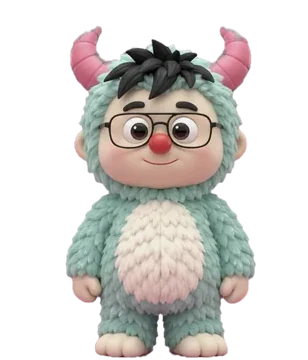
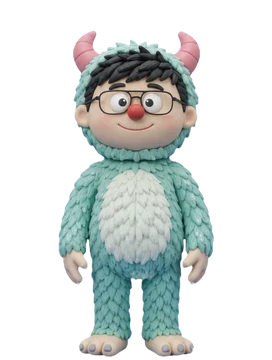
五個聖誕角色都換成大熊的動態影片：彩繪精靈（畫筆畫圈、揮拐杖糖、小跳）、禮物精靈（舉高禮物、眨眼、小跳）、薑餅烘焙師（展示薑餅、擠糖霜、揮手）、粉雪女王（揮魔杖、行禮、眨眼）、薄荷雪怪（藍底新版）；藍色背景去背、每秒 6 格；平常只放約 20KB 靜止圖，點他或鏡頭靠近才下載動畫播一輪、播完就釋放記憶體；park 20261025c、art 20261025e

diff --git a/park.html b/park.html
@@ -775,7 +775,7 @@ body:not(.oct) #evPill{display:none}
 <script src="https://cdnjs.cloudflare.com/ajax/libs/three.js/r128/three.min.js"></script>
 <script>
 const RM=false; /* 大熊決定（跟扭蛋 gacha.js 一樣）：不管手機有沒有開「減少動態效果」，遊戲動畫照常播。之前 RM 會把轉扭蛋、滾出來、走格子動畫縮成 0.08 秒，看起來像「點了沒反應」 */
-const PARK_VER='20261025b';
+const PARK_VER='20261025c';
 /* 手機把 WebGL 收回去（iPhone 的 LINE 記憶體不夠、或切到別的 App 再回來）時，3D 畫面會整個消失，只剩背景和按鈕＝「空空的」。
    three 會自己還原；3 秒沒回來就自動重新整理（30 秒內最多一次），並記下這支手機，之後 1 天改用省記憶體模式（影子圖和解析度縮小；2026-10-10 大熊嫌糊，7 天→1 天） */
 const LOWMEM=(()=>{try{return Date.now()-(+localStorage.getItem('otto2-gl-lost')||0)<864e5}catch(e){return false}})();
@@ -1421,8 +1421,8 @@ function buildShop(P){
   /* 2026-10-24 大熊：聖誕期間店門口的人換成薑餅烘焙師（他設計的公仔正面，一樣高） */
   {const XB=XSC(),ch=1.65*397/300,cw=XB?ch*308/600:1.65,ct=new THREE.TextureLoader().load(XB?'xmas-baker.webp?v=20261024a':'shop-keeper-last.webp?v=20261007e');ct.anisotropy=4;const cx=1.85,cz=1.15;
     /* 2026-10-25 大熊：每個人都至少要三種動作 → 聖誕期間烘焙師改成跟其他人一樣的立牌（會晃、丟薑餅、擠糖霜、冒愛心），點他跳一下再進選品館 */
-    if(XB){const bk=standeeMake('xmas-baker.webp?v=20261024a',308/600,2.15,[.86,.5],'#c99a66');bk.position.set(cx,0,cz);S.add(bk);GA.baker=bk;
-      Object.assign(bk.userData,{moves:['toss','shake','love'],hopFx:'cookie',tip2:[(.12-.5)*bk.userData.W,.16+(1-.62)*2.15],pal2:['#ffffff','#f7c6d4','#f2a3b8']})}
+    if(XB){const bk=standeeMake('xmas-baker-still.webp?v=20261025a',1,2.15,[.86,.5],'#c99a66',SD_ATLAS.BAKER);bk.position.set(cx,0,cz);S.add(bk);GA.baker=bk;
+      Object.assign(bk.userData,{moves:['toss','shake','love'],hopFx:'cookie',tip2:(()=>{const A=SD_ATLAS.BAKER,[,,w,h,ox,oy]=A.rects[A.seq[0]],u=bk.userData;return[((ox+.12*w)/A.W0-.5)*u.W,.16+(1-(oy+.62*h)/A.H0)*u.H]})(),pal2:['#ffffff','#f7c6d4','#f2a3b8']})}
     else{const c=new THREE.Mesh(new THREE.PlaneGeometry(cw,ch),new THREE.MeshBasicMaterial({map:ct,transparent:true,alphaTest:.3,side:THREE.DoubleSide}));c.position.set(cx,ch/2,cz);S.add(c)}
     const cs=new THREE.Mesh(new THREE.CircleGeometry(1,20),new THREE.MeshBasicMaterial({color:'#000',transparent:true,opacity:.16,depthWrite:false}));cs.rotation.x=-Math.PI/2;cs.scale.set(.5,.2,1);cs.position.set(cx,.04,cz+.05);S.add(cs);
     const cv=document.createElement('canvas');cv.width=480;cv.height=170;const x=cv.getContext('2d');
@@ -1886,9 +1886,9 @@ function buildPlaza(){
   GA.kb=makePicasso('p02');GA.kb.scale.setScalar(KS);GA.kb.userData.home=MACH.clone().add(new THREE.Vector3(0,2.85,1.95));
   GA.kb.position.copy(GA.kb.userData.home);GA.kb.rotation.x=KX;scene.add(GA.kb);
   if(XSC())xmasPlaza(P,W,GY+R);
-  if(XSC()){const ge=standeeMake('xmas-giftelf.webp?v=20261024a',341/600,2.3,[.78,.6],'#f2c14e');ge.position.set(MACH.x-PLAZA.x-1.9,0,MACH.z-PLAZA.z+2.3);P.add(ge);GA.giftElf=ge;
+  if(XSC()){const ge=standeeMake('xmas-giftelf-still.webp?v=20261025a',1,2.3,[.78,.6],'#f2c14e',SD_ATLAS.GIFT);ge.position.set(MACH.x-PLAZA.x-1.9,0,MACH.z-PLAZA.z+2.3);P.add(ge);GA.giftElf=ge;
     Object.assign(ge.userData,{moves:['pop','love','wave'],pal:['#f2c14e','#f7d77a','#f2a3b8','#ffffff','#e8b94a'],i:-1,t:0});
-    const bub=new THREE.Sprite(new THREE.SpriteMaterial({transparent:true,depthTest:false}));bub.center.set(.5,0);bub.position.y=2.3+.4;bub.renderOrder=5;ge.add(bub);ge.userData.bub=bub}
+    const bub=new THREE.Sprite(new THREE.SpriteMaterial({transparent:true,depthTest:false}));bub.center.set(.5,0);bub.position.y=ge.userData.Hc+.3;bub.renderOrder=5;ge.add(bub);ge.userData.bub=bub}
   buildTrain();
   buildMarquee(g,GY+R+1.7);
   buildStand();buildBoard();buildBubbles();
@@ -2799,7 +2799,7 @@ $('plMascot').addEventListener('click',()=>{if(busy)return;mascotGo()});
 $('plPark').addEventListener('click',()=>{if(!busy&&G.phase!=='oct')backToPlaza()});
 $('plWalk').addEventListener('click',()=>enterWalk());
 document.querySelector('.octinfo').addEventListener('click',()=>{if(G.phase==='oct'&&walkOpen())enterWalk()});
-$('plArt').addEventListener('click',()=>{if(busy)return;if($('plArt').classList.contains('gray')){toast('作品小屋還在準備，之後會開放');return}Ferry.go({to:'art.html?v=20261025d',place:'art',from:'park'})});
+$('plArt').addEventListener('click',()=>{if(busy)return;if($('plArt').classList.contains('gray')){toast('作品小屋還在準備，之後會開放');return}Ferry.go({to:'art.html?v=20261025e',place:'art',from:'park'})});
 const petsToday=()=>new Date(Date.now()+8*3600e3).toISOString().slice(0,10);
 const PETS_NOTICE_DAYS=5; /* 通知只在前 5 天每天跳一次，之後改成「吉祥物島」按鈕上的小紅點（當天還沒去過才亮） */
 function petsDot(){let v='';try{v=localStorage.getItem('otto2-pets-visit')||''}catch(e){}const b=$('plMascot');if(b)b.classList.toggle('dot',v!==petsToday())}
@@ -2981,19 +2981,35 @@ function elfBubble(t){const cv=document.createElement('canvas'),x=cv.getContext(
 /* 2026-10-24 大熊：平面板子很奇怪 → 改成像壓克力立牌：正面是圖、後面疊 8 層深色同形狀做出厚度，站在木頭圓底座上；
    整個立牌只繞直立軸轉向鏡頭（不會像貼紙一樣往後倒），從上往下看看得到頭頂那圈厚度 */
 /* 立牌共用（彩繪精靈、禮物精靈）：url 圖、ar＝寬/高、H 高度、tip＝噴顏料的位置（圖上 0～1 的比例，左上是 0,0）、rim 底座邊色 */
-function standeeMake(url,ar,H,tip,rim){const g=new THREE.Group(),W=H*ar;g.userData.standee=1;      // 有 userData，mergeStatic 不會動它
+/* A＝動態版（大熊的影片：每秒 6 格去背、排進一張大圖）。url 是靜止的第一格；有人點、或鏡頭靠近才下載大圖播一輪，播完或鏡頭離開就丟掉省記憶體。
+   H 是人物身高，動態版換算成整格高度；tip 也從人物範圍換算到整格 */
+const SD_ATLAS={ELF:Object.assign({"W0":224,"H0":360,"AW":4056,"AH":1008,"rects":[[0,0,169,330,20,27],[171,0,170,330,20,27],[343,0,170,332,20,25],[515,0,170,331,20,26],[687,0,170,329,20,28],[859,0,170,330,20,27],[1031,0,171,331,20,26],[1204,0,190,329,18,28],[1396,0,185,328,14,29],[1583,0,165,325,9,33],[1750,0,157,324,6,34],[1909,0,174,325,12,33],[2085,0,202,326,18,31],[2289,0,204,327,18,30],[2495,0,206,324,12,34],[2703,0,208,333,6,25],[2913,0,195,334,3,24],[3110,0,173,331,4,26],[3285,0,168,326,9,31],[3455,0,157,328,20,29],[3614,0,126,330,47,27],[3742,0,130,331,45,26],[3874,0,182,329,3,28],[0,336,187,326,6,31],[189,336,187,323,14,34],[378,336,188,323,14,34],[568,336,197,325,0,32],[767,336,195,325,0,32],[964,336,185,324,14,33],[1151,336,184,324,15,33],[1337,336,190,327,0,30],[1529,336,175,330,2,27],[1706,336,160,330,9,27],[1868,336,151,328,19,29],[2021,336,136,329,33,29],[2159,336,173,340,11,6],[2334,336,177,325,11,4],[2513,336,175,330,11,16],[2690,336,176,323,11,34],[2868,336,184,336,6,2],[3054,336,183,320,9,6],[3239,336,180,332,10,25],[3421,336,172,323,14,35],[3595,336,178,331,14,26],[3775,336,175,329,15,28],[0,678,173,326,16,31],[175,678,175,329,15,29],[352,678,176,330,15,28],[530,678,176,328,15,29]],"seq":[0,0,0,1,2,3,4,5,6,7,8,9,10,11,12,13,14,15,16,17,18,19,20,21,22,23,24,25,26,27,28,29,30,31,32,32,33,34,35,36,37,38,39,40,41,42,43,44,45,46,47,48,48,48,48,48,48,48,48,48]},{fps:6,url:'mascot-elf-anim.webp?v=20261025a'}),GIFT:Object.assign({"W0":180,"H0":360,"AW":4059,"AH":681,"rects":[[0,0,135,332,23,25],[137,0,134,331,24,26],[273,0,134,332,24,25],[409,0,135,334,24,23],[546,0,135,336,24,21],[683,0,135,336,24,21],[820,0,135,336,24,21],[957,0,133,338,25,20],[1092,0,133,332,24,25],[1227,0,160,328,11,30],[1389,0,171,325,5,32],[1562,0,178,326,1,32],[1742,0,177,329,1,29],[1921,0,174,328,3,29],[2097,0,174,327,3,30],[2273,0,166,327,10,30],[2441,0,142,332,21,26],[2585,0,132,335,29,23],[2719,0,142,332,23,25],[2863,0,147,329,21,28],[3012,0,146,330,22,27],[3160,0,145,330,23,27],[3307,0,144,330,23,27],[3453,0,137,333,23,24],[3592,0,153,330,7,27],[3747,0,155,326,5,31],[3904,0,155,326,5,31],[0,340,144,334,15,24],[146,340,140,341,20,2],[288,340,141,328,20,5],[431,340,143,329,19,9],[576,340,141,322,20,35],[719,340,132,337,25,19],[853,340,141,336,20,3],[996,340,143,326,19,6],[1141,340,138,321,22,9],[1281,340,139,322,21,9],[1422,340,141,330,20,17],[1565,340,137,326,22,32],[1704,340,136,333,22,25],[1842,340,137,334,22,23],[1981,340,137,333,22,24],[2120,340,136,331,23,26],[2258,340,136,332,23,25]],"seq":[0,0,0,1,2,3,4,5,6,7,8,9,10,11,12,13,14,14,14,14,15,16,17,18,19,20,21,22,23,24,25,25,26,27,28,29,30,31,32,33,34,35,36,37,38,39,40,41,42,42,43,43,43,43,43,43,43,43,43,43]},{fps:6,url:'xmas-giftelf-anim.webp?v=20261025a'}),BAKER:Object.assign({"W0":193,"H0":360,"AW":3931,"AH":712,"rects":[[0,0,161,354,5,3],[163,0,161,355,5,3],[326,0,161,355,5,3],[489,0,161,355,5,3],[652,0,161,355,5,3],[815,0,161,355,4,3],[978,0,167,355,4,3],[1147,0,173,355,3,3],[1322,0,174,354,3,4],[1498,0,174,355,3,3],[1674,0,170,354,7,3],[1846,0,164,354,10,3],[2012,0,159,354,12,3],[2173,0,146,354,20,3],[2321,0,140,354,24,3],[2463,0,140,354,24,3],[2605,0,141,354,24,3],[2748,0,145,354,20,3],[2895,0,143,354,22,3],[3040,0,141,354,24,3],[3183,0,142,354,23,3],[3327,0,144,354,21,3],[3473,0,148,354,16,3],[3623,0,152,355,11,2],[3777,0,154,351,8,6],[0,357,168,353,8,4],[170,357,183,355,5,2],[355,357,174,354,4,3],[531,357,187,354,4,3],[720,357,189,355,4,2],[911,357,187,354,3,3],[1100,357,179,354,2,3],[1281,357,190,354,3,3],[1473,357,185,355,5,2],[1660,357,163,354,7,3],[1825,357,155,354,8,3],[1982,357,155,354,8,3]],"seq":[0,1,1,2,2,3,3,3,3,3,3,3,4,5,6,7,8,9,9,9,9,9,10,11,12,13,14,15,15,16,17,17,18,19,20,21,21,22,23,24,25,26,27,28,29,30,31,32,33,34,35,35,36,36,36,36,36,36,36,36]},{fps:6,url:'xmas-baker-anim.webp?v=20261025a'})};
+function standeeMake(url,ar,H,tip,rim,A){let Hc=H;if(A){const [,,w,h,ox,oy]=A.rects[A.seq[0]];H=H*A.H0/h;ar=A.W0/A.H0;tip=[(ox+tip[0]*w)/A.W0,(oy+tip[1]*h)/A.H0];Hc=.16+(1-oy/A.H0)*H}
+  const g=new THREE.Group(),W=H*ar;g.userData.standee=1;   /* 有 userData，mergeStatic 不會動它 */
   const tx=new THREE.TextureLoader().load(url);tx.anisotropy=4;
-  const geo=new THREE.PlaneGeometry(W,H);geo.translate(0,H/2+.16,0);
+  const geo=A?new THREE.PlaneGeometry(1,1):new THREE.PlaneGeometry(W,H);if(!A)geo.translate(0,H/2+.16,0);
   const st=new THREE.Group();g.add(st);const sp=new THREE.Mesh(geo,new THREE.MeshBasicMaterial({map:tx,alphaTest:.5,side:THREE.DoubleSide}));st.add(sp);   /* 不吃燈光（吃燈光晚上會太黑）；大熊嫌太亮→圖本身彩度降 20%、亮度降 5% */
   const edge=new THREE.MeshBasicMaterial({map:tx,color:'#9c8c78',alphaTest:.5,side:THREE.DoubleSide});
-  for(let k=1;k<=8;k++){const l=new THREE.Mesh(geo,edge);l.position.z=-k*.014;st.add(l)}
-  const base=new THREE.Group();g.add(base);const R=Math.max(.62,W*.42);
+  if(!A)for(let k=1;k<=8;k++){const l=new THREE.Mesh(geo,edge);l.position.z=-k*.014;st.add(l)}   /* 動態版不疊厚度（每格輪廓不同，會有殘影） */
+  const base=new THREE.Group();g.add(base);const R=A?Math.max(.6,Hc*.27):Math.max(.62,W*.42);
   base.add(mesh(new THREE.CylinderGeometry(R,R+.06,.16,28),toon('#c99a66'),0,.08,0));base.add(mesh(new THREE.CylinderGeometry(R-.02,R-.02,.02,28),toon('#efe2c8'),0,.17,0));
   const rm=mesh(new THREE.TorusGeometry(R,.025,6,28),toon(rim||'#e9a3b4'),0,.16,0);rm.rotation.x=Math.PI/2;base.add(rm);
-  Object.assign(g.userData,{sp,st,H,W,tip:[(tip[0]-.5)*W,.16+(1-tip[1])*H],moves:['wave','love']});return g}
+  Object.assign(g.userData,{sp,st,H,W,Hc,tx,atlas:A,cool:0,tip:[(tip[0]-.5)*W,.16+(1-tip[1])*H],moves:['wave','love']});if(A)sdFrame(g.userData,[0,0,A.W0,A.H0,0,0],A.W0,A.H0,tx);return g}
+function sdFrame(u,r,tw,th,t){const A=u.atlas,[x,y,w,h,ox,oy]=r;t.repeat.set(w/tw,h/th);t.offset.set(x/tw,1-(y+h)/th);
+  if(u.sp.material.map!==t){u.sp.material.map=t;u.sp.material.needsUpdate=true}
+  u.sp.scale.set(w/A.W0*u.W,h/A.H0*u.H,1);u.sp.position.set(((ox+w/2)/A.W0-.5)*u.W,.16+(1-(oy+h/2)/A.H0)*u.H,0)}
+function sdAnimStart(g){const u=g.userData,A=u.atlas;if(!A||u.atx||u.loading)return;u.loading=true;
+  new THREE.TextureLoader().load(A.url,t=>{u.loading=false;t.minFilter=THREE.LinearFilter;t.generateMipmaps=false;u.atx=t;u.p0=null;u.fi=-1},undefined,()=>{u.loading=false})}
+function sdAnimStop(u){if(!u.atx)return;sdFrame(u,[0,0,u.atlas.W0,u.atlas.H0,0,0],u.atlas.W0,u.atlas.H0,u.tx);u.atx.dispose();u.atx=null;u.tapped=false;u.cool=performance.now()+6000}
+const _sdw=new THREE.Vector3();
+function sdAnimTick(g,now){const u=g.userData,A=u.atlas;g.getWorldPosition(_sdw);const d=camera.position.distanceTo(_sdw);
+  if(!u.atx){if(!u.loading&&now>u.cool&&d<11&&g.visible)sdAnimStart(g);return}   /* 鏡頭靠近就播一輪 */
+  if(u.p0==null)u.p0=now;const k=Math.max(0,Math.floor((now-u.p0)/1000*A.fps));
+  if(k>=A.seq.length||(d>26&&!u.tapped)||!g.visible){sdAnimStop(u);return}       /* 播完、鏡頭走遠、看不到了就丟掉大圖 */
+  const i=A.seq[k];if(i!=null&&i!==u.fi){u.fi=i;sdFrame(u,A.rects[i],A.AW,A.AH,u.atx)}}
 const ELF_H=2.6;
-function elfMake(){const g=standeeMake('mascot-elf.webp?v=20261024c',358/600,ELF_H,[.96,.47],'#e9a3b4');g.userData.elf=1;g.userData.moves=['wave','love','shake'];g.userData.pal2=ELF_PAINT;
-  const bub=new THREE.Sprite(new THREE.SpriteMaterial({transparent:true,depthTest:false}));bub.center.set(.5,0);bub.position.y=ELF_H+.35;bub.renderOrder=5;g.add(bub);
+function elfMake(){const g=standeeMake('mascot-elf-still.webp?v=20261025a',1,ELF_H,[.96,.47],'#e9a3b4',SD_ATLAS.ELF);g.userData.elf=1;g.userData.moves=['wave','love','shake'];g.userData.pal2=ELF_PAINT;
+  const bub=new THREE.Sprite(new THREE.SpriteMaterial({transparent:true,depthTest:false}));bub.center.set(.5,0);bub.position.y=g.userData.Hc+.25;bub.renderOrder=5;g.add(bub);
   g.userData.bub=bub;g.userData.i=-1;g.userData.t=0;return g}
 const _ew=new THREE.Vector3(),_et=new THREE.Vector3(),_ep=new THREE.Vector3();
 /* 2026-10-24 大熊：加動作和反應。點她＝跳一下＋噴顏料＋冒愛心，跳完才開介紹卡；揮畫筆＝整個立牌左右搖、筆尖噴顏料
@@ -3016,11 +3032,11 @@ function elfEmit(kind,at,n,pal){for(let i=0;i<n;i++){let p=ELFP.find(q=>q.life<=
     if(hv)p.v.set((Math.random()-.5)*.6,1.1+Math.random()*.5,(Math.random()-.5)*.6);else if(ck)p.v.set((Math.random()-.5)*2.2,2.6+Math.random()*1.2,(Math.random()-.5)*2.2);else p.v.set((Math.random()-.5)*2.4,1.2+Math.random()*1.8,(Math.random()-.5)*2.4)}}
 function elfParticles(dt){ELFP.forEach(p=>{if(p.life<=0)return;p.life-=dt;if(p.life<=0){p.sp.visible=false;return}
   if(p.kind!=='heart')p.v.y-=4.5*dt;p.sp.position.addScaledVector(p.v,dt);if(p.kind==='cookie')p.sp.material.rotation+=dt*5;const k=p.life/p.max;p.sp.material.opacity=Math.min(1,k*2);if(p.kind==='heart')p.sp.scale.setScalar(p.s*(1+(1-k)*.4))})}
-const sdTip=u=>u.st.localToWorld(_ep.set(u.tip[0],u.tip[1],.05)).clone(),sdTip2=u=>u.tip2?u.st.localToWorld(_ep.set(u.tip2[0],u.tip2[1],.05)).clone():sdTip(u),sdHead=u=>u.st.localToWorld(_ep.set(0,u.H*.85,.1)).clone();
+const sdTip=u=>u.st.localToWorld(_ep.set(u.tip[0],u.tip[1],.05)).clone(),sdTip2=u=>u.tip2?u.st.localToWorld(_ep.set(u.tip2[0],u.tip2[1],.05)).clone():sdTip(u),sdHead=u=>u.st.localToWorld(_ep.set(0,u.Hc*.85,.1)).clone();
 function sdDo(g,kind){if(!g)return;const u=g.userData;u.anim=kind;u.a0=performance.now();u.fx=0}
 const elfDo=kind=>sdDo(MI.elf,kind);
 /* 每一格：立牌轉向鏡頭、輕晃，播 hop（跳＋扭＋噴顏料＋愛心）／wave（左右搖＋噴顏料）／love（冒愛心）；idle＝可以自己動的時候，每 7～12 秒挑一個 */
-function sdTick(g,now,idle){const u=g.userData;
+function sdTick(g,now,idle){const u=g.userData;if(u.atlas)sdAnimTick(g,now);
   let y=Math.abs(Math.sin(now/520))*.06,sx=1,sy=1,rz=0,spin=Math.sin(now/1300)*.06;
   if(u.anim){const t=(now-u.a0)/1000;
     if(u.anim==='hop'){const p=Math.min(1,t/.75);if(t<.12){sy=1-t/.12*.12;sx=1+t/.12*.08}else{const q=Math.min(1,(t-.12)/.63);y+=Math.sin(Math.PI*q)*.75;spin+=Math.sin(q*Math.PI*2)*.5;/* 只扭一下，不整圈轉（背面是深色的疊層，轉過去不好看） */sy=1+Math.sin(Math.PI*q)*.06;sx=1-Math.sin(Math.PI*q)*.04}
@@ -3050,10 +3066,10 @@ function elfTick(now){const dt=Math.min(.05,(now-(elfTick.last||now))/1000);elfT
 /* 2026-10-24 大熊：扭蛋機前面多一個禮物精靈（聖誕期間）。點她跳一下＋冒愛心，說一句話 */
 const GIFT_SAY=()=>['聖誕快樂！🎁','轉一下扭蛋看看！','禮物準備好了喔','今天也要開心～'];
 /* 點烘焙師：跳一下丟薑餅，跳完才進選品館 */
-function bakerTap(rc){const b=GA.baker;if(!b||!rc.intersectObject(b.userData.sp,false).length)return false;if(busy)return true;sfx('tap');if(b.userData.anim!=='hop'){sdDo(b,'hop');b.userData.next=performance.now()+9000;setTimeout(openShop,750)}return true}
-function giftTap(rc){const e=GA.giftElf;if(!e||!e.visible||!rc.intersectObject(e.userData.sp,false).length)return false;sfx('tap');
+function bakerTap(rc){const b=GA.baker;if(!b||!rc.intersectObject(b.userData.sp,false).length)return false;if(busy)return true;sfx('tap');b.userData.tapped=true;sdAnimStart(b);if(b.userData.anim!=='hop'){sdDo(b,'hop');b.userData.next=performance.now()+9000;setTimeout(openShop,750)}return true}
+function giftTap(rc){const e=GA.giftElf;if(!e||!e.visible||!rc.intersectObject(e.userData.sp,false).length)return false;sfx('tap');e.userData.tapped=true;sdAnimStart(e);
   if(e.userData.anim!=='hop'){sdDo(e,'hop');e.userData.next=performance.now()+9000;toast('聖誕快樂！轉一下扭蛋，看看有什麼驚喜 🎁')}return true}
-function elfTap(rc){const e=MI.elf;if(!e||!rc.intersectObject(e.userData.sp,false).length)return false;sfx('tap');
+function elfTap(rc){const e=MI.elf;if(!e||!rc.intersectObject(e.userData.sp,false).length)return false;sfx('tap');e.userData.tapped=true;sdAnimStart(e);
   if(e.userData.anim==='hop')return true;elfDo('hop');e.userData.next=performance.now()+9000;
   setTimeout(()=>popup(null,'彩繪精靈','吉祥物島的守門員！嘎逼、卡布、摩卡、小熊和蛙蛙叫都住在這裡。餵牠們吃點心，牠們會越來越喜歡你喔。',[{t:'去餵食',v:'feed',cls:'red'},{t:'關閉',v:false,cls:'ghost'}],
     '<img alt="彩繪精靈" src="mascot-elf.webp?v=20261024c" style="display:block;height:190px;margin:2px auto 6px">').then(v=>{if(v==='feed'&&$('miFood').hidden)$('miFeed').click()}),900);return true}

diff --git a/art.html b/art.html
@@ -530,21 +530,22 @@ function xmasSnowman(){const a=PIER_A-.15,rr=outline(a)*.66,     // 碼頭內側
 /* 2026-10-25 大熊：湖邊放粉雪女王、薄荷雪怪（聖誕期間，跟佈置一起）。做法同遊樂島的彩繪精靈：
    大熊的透明三視圖裁正面當壓克力立牌（正面＋後面 8 層深色做厚度、木頭底座），只繞直立軸轉向鏡頭、輕晃；
    點他們跳一下＋冒愛心＋彩色碎片，下面跳一句話；平常每 7～12 秒自己動一下 */
-const YETI_ATLAS=Object.assign({"W0":308,"H0":360,"AW":3932,"AH":1380,"rects":[[0,0,191,333,65,25],[193,0,194,332,64,26],[389,0,196,332,62,26],[587,0,199,332,60,26],[788,0,206,337,57,21],[996,0,222,342,44,16],[1220,0,227,341,40,17],[1449,0,227,341,40,17],[1678,0,230,337,34,21],[1910,0,251,335,13,24],[2163,0,238,339,34,20],[2403,0,238,339,37,20],[2643,0,267,339,5,20],[2912,0,264,339,7,20],[3178,0,236,339,39,20],[3416,0,241,340,35,19],[3659,0,267,338,5,20],[0,344,255,339,16,20],[257,344,234,339,40,20],[493,344,257,340,19,19],[752,344,265,340,9,19],[1019,344,239,337,33,21],[1260,344,242,337,30,21],[1504,344,247,329,20,30],[1753,344,212,326,53,33],[1967,344,269,354,27,4],[2238,344,280,322,19,3],[2520,344,276,313,21,6],[2798,344,276,322,20,19],[3076,344,289,316,15,43],[3367,344,260,330,29,28],[3629,344,296,353,11,4],[0,700,283,320,18,6],[285,700,277,315,21,7],[564,700,281,332,19,18],[847,700,291,321,15,37],[1140,700,217,330,53,29],[1359,700,197,338,59,20],[1558,700,205,337,58,22],[1765,700,212,333,55,25],[1979,700,204,331,59,27],[2185,700,201,330,60,29],[2388,700,209,338,56,20],[2599,700,220,341,52,17],[2821,700,225,340,49,18],[3048,700,229,338,47,20],[3279,700,227,336,48,22],[3508,700,216,335,53,23],[3726,700,206,337,58,22],[0,1043,197,337,62,22],[199,1043,192,334,65,25],[393,1043,192,332,65,26],[587,1043,193,333,64,25],[782,1043,195,333,63,25],[979,1043,196,334,63,25],[1177,1043,195,333,63,25]],"seq":[0,0,1,2,3,4,5,6,7,8,9,10,11,12,13,14,15,16,17,18,19,20,21,22,23,24,25,26,27,28,29,30,31,32,33,34,35,36,37,38,39,40,41,42,43,44,45,46,47,48,49,50,51,51,52,52,53,53,54,55]},{fps:6,url:'xmas-yeti-anim.webp?v=20261025b'});   /* 薄荷雪怪動態版的格子位置（scratchpad tools/key.py 產生） */
+const YETI_ATLAS=Object.assign({"W0":272,"H0":360,"AW":4074,"AH":1009,"rects":[[0,0,156,327,58,30],[158,0,158,328,57,29],[318,0,162,330,55,27],[482,0,161,329,55,28],[645,0,157,327,58,30],[804,0,184,330,56,27],[990,0,193,333,53,24],[1185,0,200,329,54,28],[1387,0,212,327,54,30],[1601,0,192,330,54,27],[1795,0,198,331,54,26],[1995,0,209,329,54,28],[2206,0,186,329,54,28],[2394,0,202,330,54,27],[2598,0,205,330,54,27],[2805,0,197,330,54,27],[3004,0,206,330,51,27],[3212,0,243,328,20,29],[3457,0,264,325,4,32],[3723,0,264,322,4,35],[0,335,264,343,4,14],[266,335,264,315,4,2],[532,335,264,308,4,2],[798,335,264,331,4,3],[1064,335,233,323,20,34],[1299,335,158,328,57,29],[1459,335,167,331,53,26],[1628,335,166,328,53,29],[1796,335,158,327,57,30],[1956,335,167,325,53,32],[2125,335,195,329,41,28],[2322,335,215,330,31,9],[2539,335,219,326,28,21],[2760,335,209,319,32,38],[2971,335,221,334,26,9],[3194,335,223,333,22,22],[3419,335,210,328,26,30],[3631,335,220,338,22,8],[3853,335,221,329,22,28],[0,680,218,324,26,33],[220,680,216,324,28,33],[438,680,189,327,41,30],[629,680,165,329,54,28],[796,680,154,329,59,28],[952,680,155,326,59,31]],"seq":[0,0,0,1,2,3,4,4,4,5,6,7,8,9,10,11,12,13,14,15,16,17,18,19,20,21,22,23,24,25,26,27,28,29,30,31,32,33,34,35,36,37,38,39,40,41,42,43,44,44,44,44,44,44,44,44,44,44,44,44]},{fps:6,url:'xmas-yeti-anim.webp?v=20261025c'}),QUEEN_ATLAS=Object.assign({"W0":214,"H0":360,"AW":3914,"AH":709,"rects":[[0,0,189,353,12,4],[191,0,189,353,11,4],[382,0,185,353,15,4],[569,0,166,353,34,4],[737,0,152,351,48,5],[891,0,156,351,45,5],[1049,0,185,351,16,5],[1236,0,201,351,0,5],[1439,0,198,351,3,5],[1639,0,168,351,33,5],[1809,0,155,351,46,5],[1966,0,170,351,31,5],[2138,0,198,351,3,5],[2338,0,196,351,2,5],[2536,0,188,352,6,4],[2726,0,186,352,9,4],[2914,0,191,352,9,5],[3107,0,200,351,9,6],[3309,0,200,352,10,5],[3511,0,201,350,10,7],[3714,0,200,342,10,15],[0,355,200,341,10,16],[202,355,200,341,10,16],[404,355,200,341,10,16],[606,355,200,342,10,15],[808,355,199,349,11,8],[1009,355,196,354,12,3],[1207,355,198,353,12,4],[1407,355,193,352,12,5],[1602,355,197,352,10,5],[1801,355,201,348,8,9],[2004,355,203,347,7,10],[2209,355,203,347,7,10],[2414,355,203,348,8,9],[2619,355,199,352,12,5],[2820,355,195,353,14,4],[3017,355,192,353,15,4],[3211,355,193,352,15,4],[3406,355,182,352,12,5],[3590,355,181,354,12,3]],"seq":[0,0,0,0,1,1,1,1,1,2,3,4,5,6,7,8,9,10,11,12,13,14,15,16,17,18,19,20,21,22,23,24,25,26,27,28,29,30,31,32,32,33,34,35,36,36,37,37,37,37,37,37,37,37,37,37,37,37,38,39]},{fps:6,url:'xmas-queen-anim.webp?v=20261025a'});   /* 雪怪、粉雪女王動態版的格子位置（scratchpad tools/keyblue.py 產生） */
 const TREEPOS=[];   /* 島上小樹的位置（buildAnimals 種的），聖誕立牌找樹下位置用 */
 const XSD=[],XSDP=[],_sw=new THREE.Vector3(),_st=new THREE.Vector3(),_sp=new THREE.Vector3();
 /* o.atlas＝會動的版本（大熊給的影片：每秒 6 格去背、每格裁到人物範圍、排進一張大圖，站著不動的格子重複用）
    {W0,H0 一格的原始大小, AW,AH 大圖大小, rects:[x,y,w,h,在原格裡的 ox,oy], seq 播放順序, fps, url 大圖}
    2026-10-25 大熊：平常不要動省記憶體 → url（第一個參數）是靜止的第一格（20KB）；有人點他、或鏡頭拉近才下載大圖播一輪，
    播完或鏡頭離開就把大圖丟掉（手機記憶體只在播的時候多佔約 22MB） */
-function xsdMake(url,ar,H,name,say,rim,o={}){const g=new THREE.Group(),W=H*ar,tx=new THREE.TextureLoader().load(url);tx.anisotropy=4;
+function xsdMake(url,ar,H,name,say,rim,o={}){if(o.atlas){const A=o.atlas,r=A.rects[A.seq[0]];H=H*A.H0/r[3];ar=A.W0/A.H0}   /* 動態版：H 是人物身高，換算成整格的高度 */
+  const g=new THREE.Group(),W=H*ar,tx=new THREE.TextureLoader().load(url);tx.anisotropy=4;
 
   const geo=o.atlas?new THREE.PlaneGeometry(1,1):new THREE.PlaneGeometry(W,H);if(!o.atlas)geo.translate(0,H/2+.16,0);const st=new THREE.Group();g.add(st);
   const sp=new THREE.Mesh(geo,new THREE.MeshBasicMaterial({map:tx,alphaTest:.5,side:THREE.DoubleSide}));st.add(sp);sp.userData={xsd:g};picks.push(sp);
   const edge=new THREE.MeshBasicMaterial({map:tx,color:'#9c8c78',alphaTest:.5,side:THREE.DoubleSide});if(!o.atlas)for(let k=1;k<=8;k++){   /* 會動的版本不疊厚度（每格輪廓不同，疊起來邊緣會有一圈深色殘影） */const l=new THREE.Mesh(geo,edge);l.position.z=-k*.014;st.add(l)}
   const R=o.baseR||Math.max(.62,W*.42);g.add(cyl('#c99a66',R,R+.06,.16,0,0,0,28));g.add(cyl('#efe2c8',R-.02,R-.02,.02,0,.16,0,28));
   const rm=new THREE.Mesh(new THREE.TorusGeometry(R,.025,6,28),toon(rim));rm.rotation.x=Math.PI/2;rm.position.y=.16;g.add(rm);
-  const tip=o.tip||[.5,.5];g.userData={st,H,W,name,say,i:0,next:0,moves:o.moves||['sway','love'],hopFx:o.hopFx||'dot',tip:[(tip[0]-.5)*W,.16+(1-tip[1])*H],tx,sp,atlas:o.atlas,cool:0};if(o.atlas)xsdFrame(g.userData,[0,0,o.atlas.W0,o.atlas.H0,0,0],o.atlas.W0,o.atlas.H0,tx);XSD.push(g);return g}
+  let tip=o.tip||[.5,.5];if(o.atlas){const A=o.atlas,[,,w,h,ox,oy]=A.rects[A.seq[0]];tip=[(ox+tip[0]*w)/A.W0,(oy+tip[1]*h)/A.H0]}g.userData={st,H,W,name,say,i:0,next:0,moves:o.moves||['sway','love'],hopFx:o.hopFx||'dot',tip:[(tip[0]-.5)*W,.16+(1-tip[1])*H],tx,sp,atlas:o.atlas,cool:0};if(o.atlas)xsdFrame(g.userData,[0,0,o.atlas.W0,o.atlas.H0,0,0],o.atlas.W0,o.atlas.H0,tx);XSD.push(g);return g}
 /* 粒子：heart 愛心、snow 雪花（慢慢飄）、puff 雪霧（往外散、變大）、ball 雪球（丟出去會掉下來）、dot 彩色碎片 */
 function xsdEmit(kind,at,n,dir){const C=['#f6f8fb','#f2a3b8','#8fd3b8','#cfe3f7','#f7c6d4'];
   for(let i=0;i<n;i++){let p=XSDP.find(q=>q.life<=0);if(!p){if(XSDP.length>=60)break;p={sp:new THREE.Sprite(new THREE.SpriteMaterial({transparent:true,depthWrite:false})),v:new THREE.Vector3(),life:0};p.sp.renderOrder=4;scene.add(p.sp);XSDP.push(p)}
@@ -604,7 +605,7 @@ function xsdTick(dt,now){XSD.forEach(g=>{const u=g.userData;
     p.sp.position.addScaledVector(p.v,dt);const k=p.life/p.max;p.sp.material.opacity=Math.min(1,k*2);
     if(p.kind==='heart')p.sp.scale.setScalar(p.s*(1+(1-k)*.4));else if(p.kind==='puff')p.sp.scale.setScalar(p.s*(1+(1-k)*1.6))})}
 function xmasPondFolk(){const P=PONDS[1];   /* 第二個湖的這一側：離所有小屋位置 3.5 以上、離小路和畫架都遠 */
-  [['xmas-queen.webp?v=20261025a',428/600,2.5,'粉雪女王',['聖誕快樂！湖水都結成粉紅色的冰了','要不要一起來許個願？','今年的作品也好漂亮喔'],'#f2a3b8',1.05,{tip:[.07,.48],moves:['wand','twirl','love'],hopFx:'snow'}],
+  [['xmas-queen-still.webp?v=20261025a',1,2.5,'粉雪女王',['聖誕快樂！湖水都結成粉紅色的冰了','要不要一起來許個願？','今年的作品也好漂亮喔'],'#f2a3b8',1.05,{tip:[.07,.48],moves:['wand','twirl','love'],hopFx:'snow',atlas:QUEEN_ATLAS}],
   ].forEach(([u,ar,H,n,say,rim,a,o])=>{
     const r=P.r+1.5,x=P.x+Math.cos(a)*r,z=P.z+Math.sin(a)*r,g=xsdMake(u,ar,H,n,say,rim,o);g.position.set(x,heightAt(x,z),z);scene.add(g)});
   /* 2026-10-25 大熊：兩個不要放一起，雪怪放到水邊附近的樹下 → 找離湖最近、旁邊沒有小屋的那棵樹，站在樹和湖之間 */
@@ -612,7 +613,7 @@ function xmasPondFolk(){const P=PONDS[1];   /* 第二個湖的這一側：離所
   let best=null;TREEPOS.forEach(t=>PONDS.forEach(p=>{const d=Math.hypot(t.x-p.x,t.z-p.z)-p.r;if(d<1||d>5)return;const ux=(p.x-t.x)/(d+p.r),uz=(p.z-t.z)/(d+p.r);
     for(const k of [1.75,1.55,1.95]){   /* 站在樹冠邊緣（太靠樹幹會被松樹的枝葉擋住） */const x=t.x+ux*k,z=t.z+uz*k;if(ok(x,z)&&(!best||d<best.d)){best={x,z,d};break}}}));
   /* 2026-10-25 大熊給了雪怪的動態影片 → 用會動的版本（眨眼、揮手、張手跳、大笑），原本的丟雪球、冒愛心留著穿插 */
-  if(best){const g=xsdMake('xmas-yeti-still.webp?v=20261025a',308/360,2.9,'薄荷雪怪',['我一點都不可怕啦！','聖誕快樂～抱一個！','在樹下躲雪最舒服了'],'#8fd3b8',{moves:['throw','love','shiver'],hopFx:'puff',baseR:.72,atlas:YETI_ATLAS});g.position.set(best.x,heightAt(best.x,best.z),best.z);scene.add(g)}}
+  if(best){const g=xsdMake('xmas-yeti-still.webp?v=20261025c',1,2.5,'薄荷雪怪',['我一點都不可怕啦！','聖誕快樂～抱一個！','在樹下躲雪最舒服了'],'#8fd3b8',{moves:['throw','love','shiver'],hopFx:'puff',baseR:.72,atlas:YETI_ATLAS});g.position.set(best.x,heightAt(best.x,best.z),best.z);scene.add(g)}}
 /* 2026-10-25 大熊：聖誕老公公要到處飛 → 作品小屋也有（模型照抄遊樂島 park.html 的 makeSanta）。
    跟著鏡頭：每一趟從畫面一邊飛到另一邊，飛 10 秒、休息 14～24 秒；點他說聖誕快樂。看小屋、開視窗的時候不飛 */
 const ASANTA={g:null,t:0,next:3,fly:false,dir:1,legs:[],stars:[],st:0};

diff --git a/index.html b/index.html
@@ -1254,7 +1254,7 @@ function artOpenNotice(){
   const close=()=>w.remove();
   w.addEventListener("click",e=>{if(e.target===w)close()});
   document.getElementById("artOpenNo").onclick=close;
-  document.getElementById("artOpenGo").onclick=()=>{ parkToken(); location.href="art.html?v=20261025d" };
+  document.getElementById("artOpenGo").onclick=()=>{ parkToken(); location.href="art.html?v=20261025e" };
 }
 function openGacha(){ parkToken(); location.href="park.html?v=20261013c" }
 function openGacha2d(){
@@ -2147,7 +2147,7 @@ function boot(){
   } else if(!boot._gc && /go(=|%3D)art/i.test(q)){
     /* 直達作品小屋（2026-10-05 會員推播用）：https://liff.line.me/2010906803-FMDYktUN?go=art */
     boot._gc=true;
-    liffReady.then(()=>{ parkToken(); location.replace("art.html?v=20261025d") });
+    liffReady.then(()=>{ parkToken(); location.replace("art.html?v=20261025e") });
   } else if(!boot._gc && /go(=|%3D)book/i.test(q)){
     boot._gc=true;
     setTimeout(()=>setStep(1),0);

diff --git a/mascot.html b/mascot.html
@@ -341,7 +341,7 @@ const NOTIFY='https://otto2-notify-production.up.railway.app',VER='20261013c';
 const DEST={
   gacha:{t:'畢卡索扭扭樂',s:'十月・扭蛋機，到 10/31',u:'park.html?v='+VER+'&phase=oct'},
   xmas:{t:'聖誕走格子',s:'11/1 起・擲骰子走格子',u:'park.html?v='+VER+'&phase=nov'},
-  art:{t:'作品小屋',s:'15 週年・大家的作品',u:'art.html?v=20261025d'}};
+  art:{t:'作品小屋',s:'15 週年・大家的作品',u:'art.html?v=20261025e'}};
 const ART_PUBLIC=true; /* 2026-10-03 作品小屋雲端版正式開放給所有人 */
 const taipei=()=>new Date(Date.now()+8*3600e3).toISOString().slice(0,10);
 let CUR=(t=>t<'2026-11-01'?'gacha':t<'2027-01-01'?'xmas':'none')(taipei());
